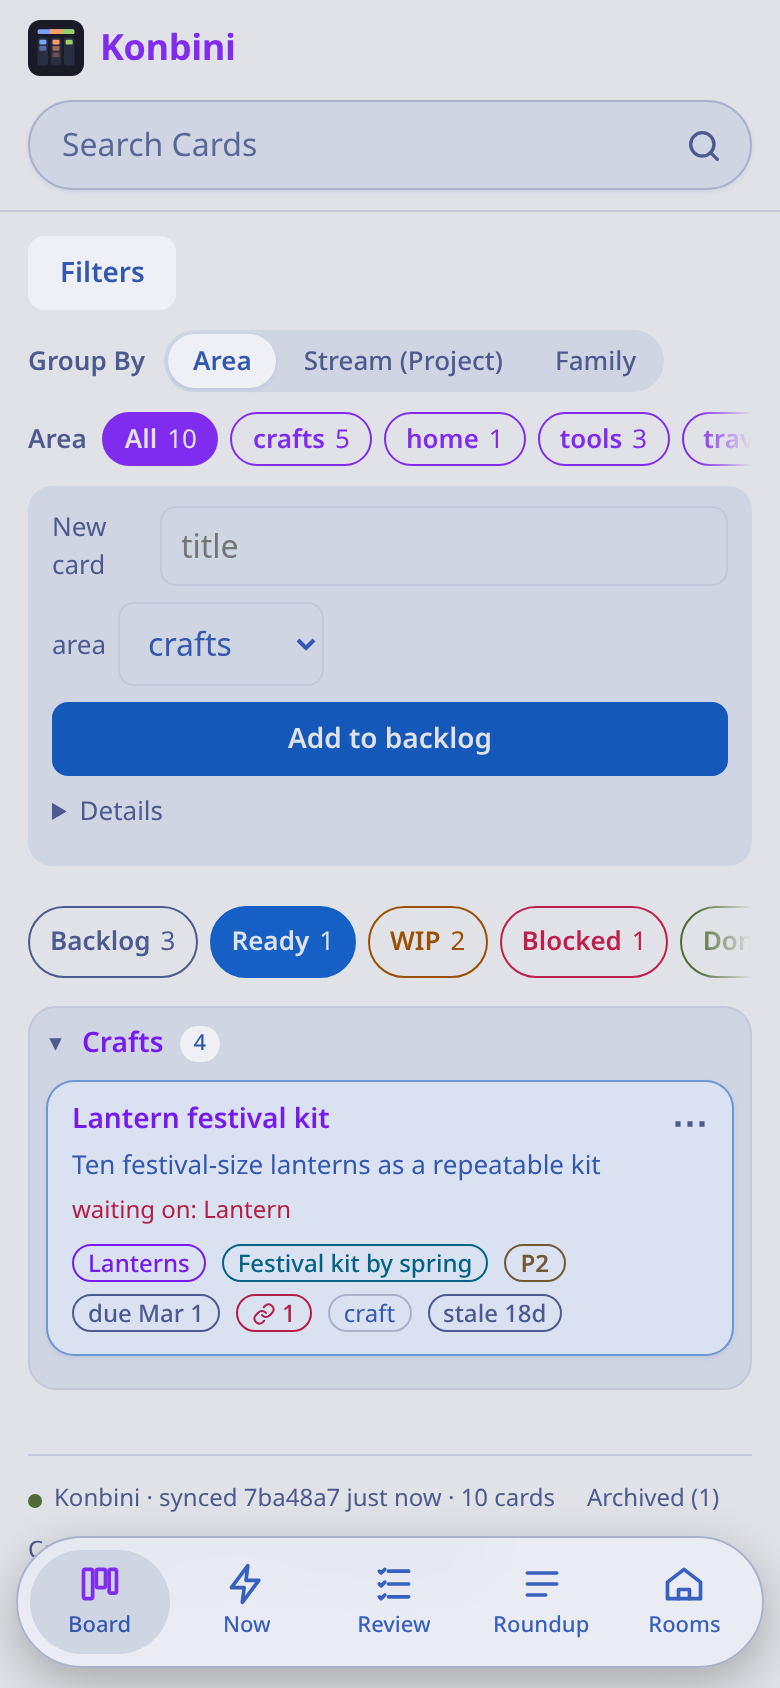
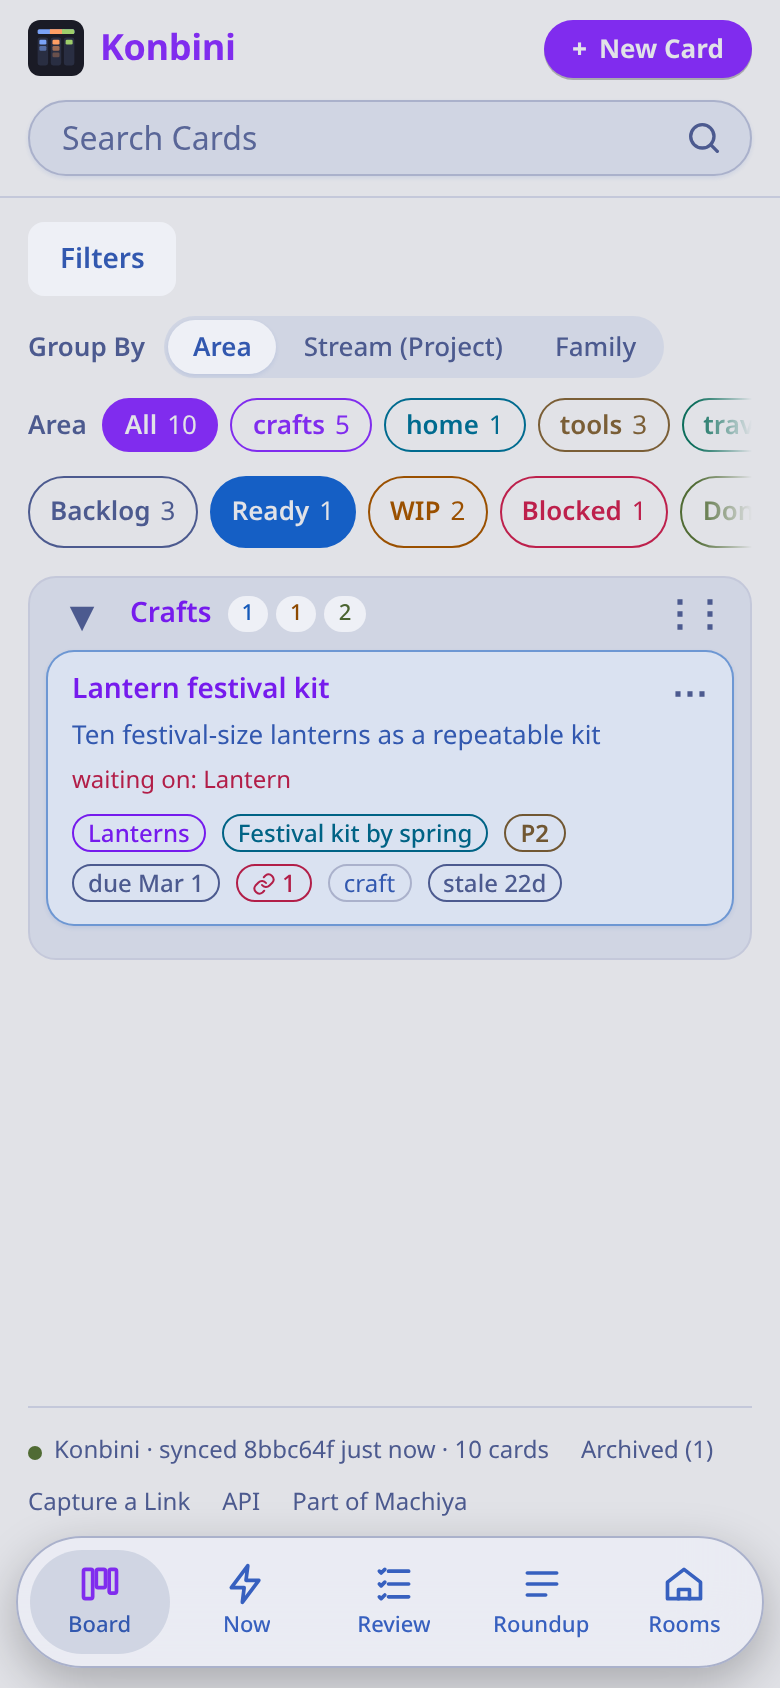
konbini: README screenshots: the lane headings with state counts, the one-row header with search and the + New Card button (sample vault, both themes)

diff --git a/README.md b/README.md
@@ -10,7 +10,7 @@ Agentically coded with [Claude Code](https://docs.anthropic.com/en/docs/claude-c
 <a href="https://machiya-kobo.github.io/">Machiya</a> · <a href="#quickstart">Quickstart</a> · <a href="docs/install.md">Install</a> · <a href="docs/settings.md">Settings</a> · <a href="docs/access.md">Access</a> · <a href="docs/vault-layout.md">Vault layout</a> · <a href="docs/pm.md">pm</a> · <a href="#license">License</a>
 </p>
 
-<p align="center"><a href="docs/screenshots/konbini-board-dark.png"><img src="docs/screenshots/konbini-board-dark.png" alt="The board in the dark theme: swimlanes for Crafts and Home, each with Backlog, Ready, WIP, Blocked and Done columns of sample cards" width="100%"></a><br>Manage your projects</p>
+<p align="center"><a href="docs/screenshots/konbini-board-dark.png"><img src="docs/screenshots/konbini-board-dark.png" alt="The board in the dark theme: the New Card button and search in the top bar, then swimlanes for Crafts and Home, each with Backlog, Ready, WIP, Blocked and Done columns of sample cards" width="100%"></a><br>Manage your projects</p>
 <table>
   <tr>
     <td align="center" width="33%"><a href="docs/screenshots/konbini-card-light.png"><img src="docs/screenshots/konbini-card-light.png" alt="A card's page in the light theme: column buttons, Archive and Won't do, its description and the editable fields" width="100%"></a><br>Open a card</td>
